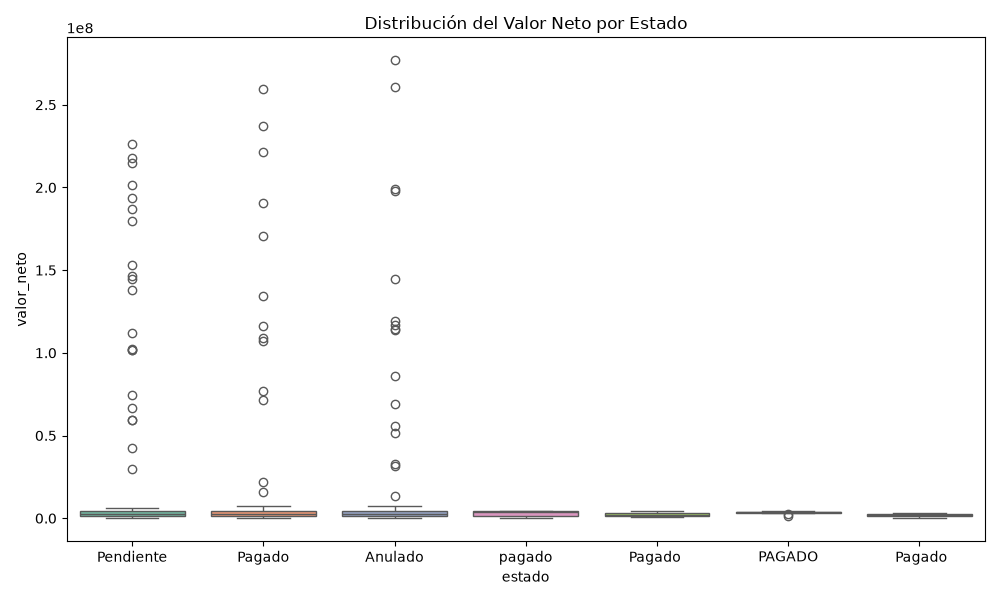
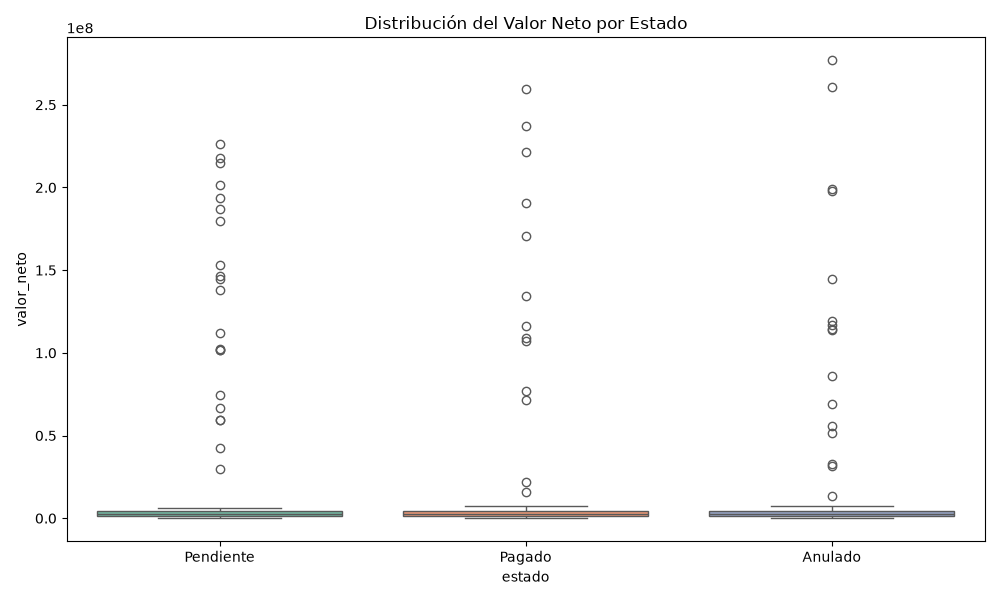
fix: Standardize estado column in ETL and regenerate EDA

diff --git a/src/data_cleaning.py b/src/data_cleaning.py
@@ -45,6 +45,11 @@ def main():
         if col in df_clean.columns:
             df_clean[col] = df_clean[col].fillna('No Identificado')
             
+    # 2.4 Estandarización de texto
+    # Basado en los hallazgos del EDA, estandarizamos la columna 'estado'
+    if 'estado' in df_clean.columns:
+        df_clean['estado'] = df_clean['estado'].str.strip().str.capitalize()
+            
     # 3. Carga (Exportar a SQLite)
     os.makedirs(os.path.dirname(output_db), exist_ok=True)
     conn = sqlite3.connect(output_db)
